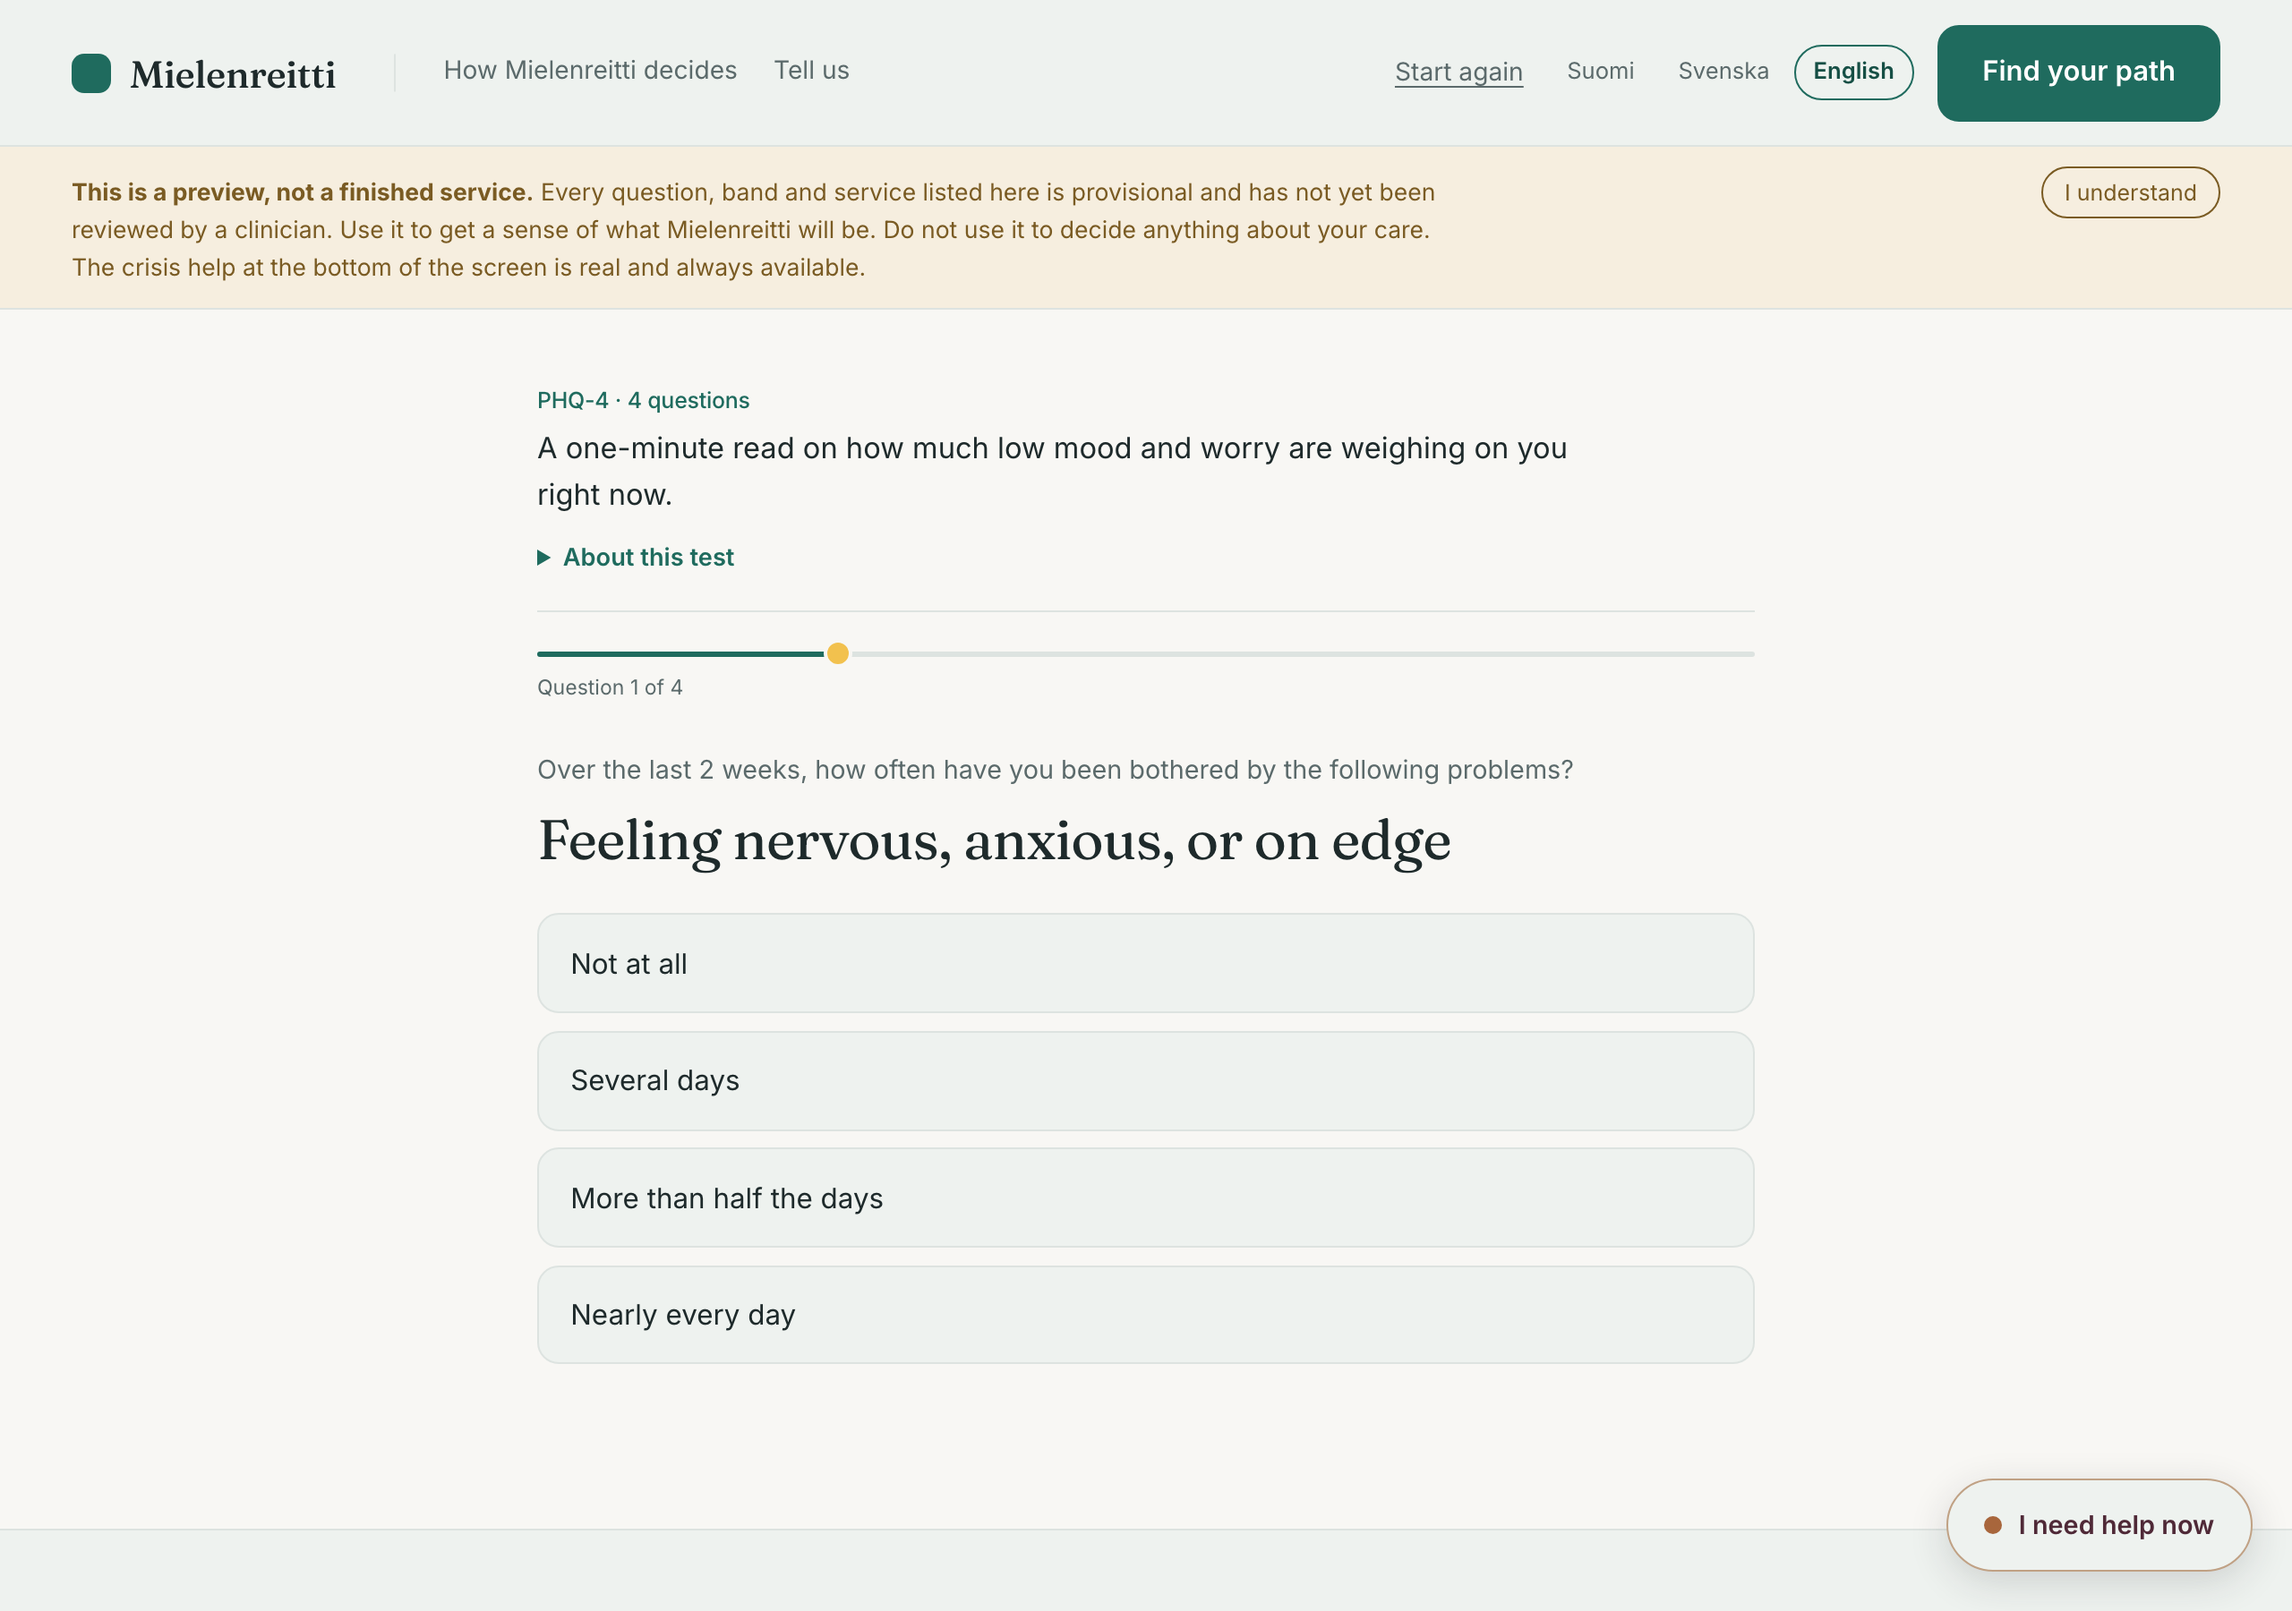
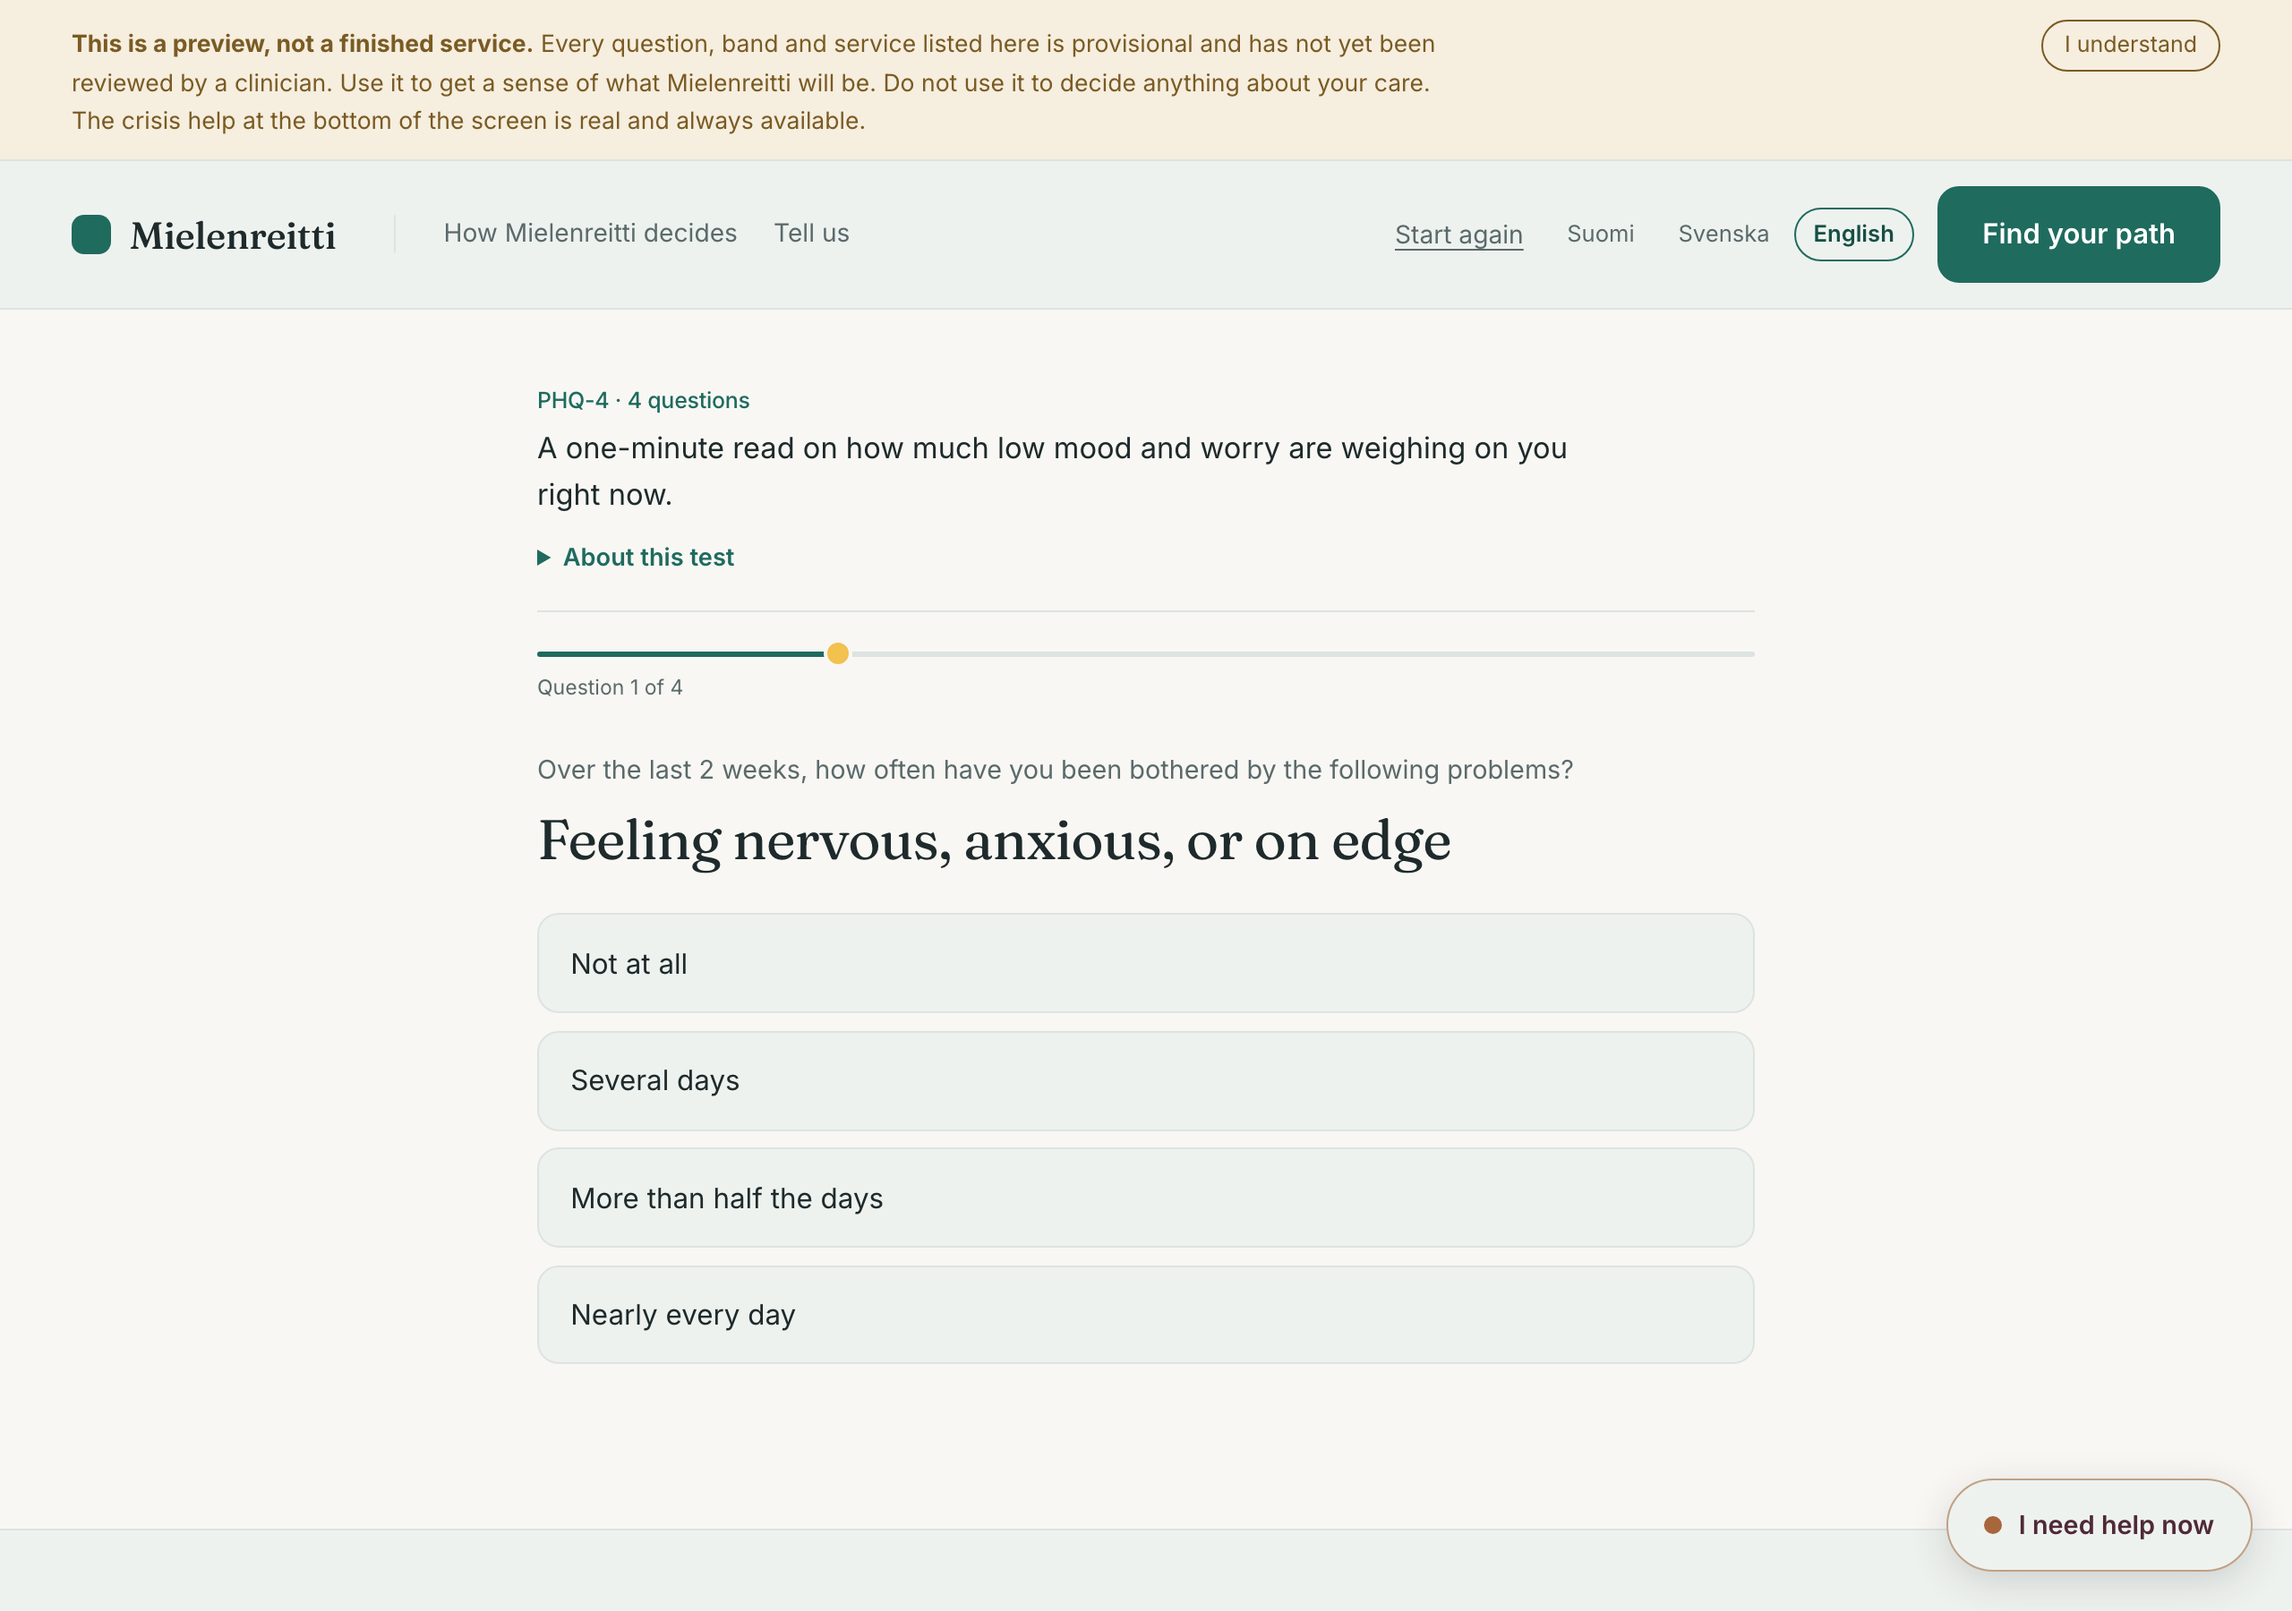
Landing page: no header bar, photo to the edges, no credit line
What was asked for, plainly.

The header stops being a bar on the landing page. It floats over the
photograph as plain white text: "How Mielenreitti decides" and "Tell us" at
the top left, the language switch and the action at the top right. Nothing
was deleted, so the flow, the transparency page, the feedback dialog and
the language switch are all still one click from where they were, and the
crisis control is still fixed on every screen.

The photo fills the screen. Exactly the screen minus the preview banner,
which now publishes its own height: it wraps to three lines in English and
four in Finnish and can be dismissed, so a fixed number would have put the
primary action below the fold in one language and left a gap in another. It
was below the fold before this; it now ends at 834px of 900.

The crisis pill and the photo credit are gone from the hero. The Unsplash
License does not require attribution, and the credit stays in
apps/web/public/img/CREDITS.md where the provenance belongs. Crisis is
still one tap away on the fixed control.

The header and main are now wrapped so the floating header positions
against the content rather than the page. Without that it sat on top of the
preview banner and both were unreadable.

One thing the audit caught. Making the header button white over the photo
looked right and was wrong: `.btn` transitions its background, so leaving
the landing page animated green to white while the text was already white,
[…]

diff --git a/apps/web/src/styles.css b/apps/web/src/styles.css
@@ -725,6 +725,51 @@ h4 {
 
 /* ---------- home ---------- */
 
+/* The landing header: no bar, no rule, no ground. Text links on the photograph,
+   the two of them at the top left and the language switch at the top right.
+   Everything is still a real control in the same place in the DOM, so the flow,
+   the language switch and the transparency page are reachable exactly as before
+   and the crisis control is still fixed on every screen. */
+.app-body {
+  position: relative;
+}
+
+.app-header.is-over-hero {
+  background: transparent;
+  border-bottom: 0;
+  position: absolute;
+  inset: 0 0 auto;
+  z-index: 2;
+}
+
+.app-header.is-over-hero .wordmark,
+.app-header.is-over-hero .header-nav::before {
+  display: none;
+}
+
+.app-header.is-over-hero .header-nav {
+  padding-left: 0;
+}
+
+.app-header.is-over-hero .nav-link,
+.app-header.is-over-hero .language-chip,
+.app-header.is-over-hero .link {
+  color: #fff;
+}
+
+.app-header.is-over-hero .nav-link.is-current,
+.app-header.is-over-hero .language-chip[aria-pressed='true'] {
+  border-color: rgba(255, 255, 255, 0.75);
+  color: #fff;
+}
+
+/* The primary action is NOT restyled here. It was white-on-green over the photo,
+   and `.btn` transitions its background: leaving the landing page animated green
+   to white while the text was already white, so for 140ms it was white on a pale
+   blend. The contrast audit caught it on the language-notice screen. The button
+   looks the same on every screen now, which is also the honest answer: it is the
+   same action. */
+
 /* The hero: a photograph with the text at the bottom left, where the water is
    darkest. White type on a photo always needs a scrim, so a gradient climbs
    from the bottom; a lighter one at the top keeps the crisis control legible
@@ -733,18 +778,14 @@ h4 {
 .hero {
   position: relative;
   isolation: isolate;
-  border-radius: 18px;
   overflow: hidden;
-  margin: 0 auto;
-  max-width: var(--wide);
-  min-height: min(78vh, 46rem);
+  /* Edge to edge, and exactly the screen minus whatever the preview banner is
+     using. `svh` rather than `vh` so a phone's address bar does not crop it, and
+     the banner publishes its own height because it wraps to a different number
+     of lines in each language and can be dismissed. Without that the primary
+     action sat below the fold. */
+  min-height: calc(100svh - var(--banner-h, 0px));
   display: flex;
-}
-
-@media (min-width: 900px) {
-  .hero {
-    width: calc(100% - 3rem);
-  }
 }
 
 .hero-photo,
@@ -848,17 +889,8 @@ h4 {
 }
 
 @media (max-width: 860px) {
-  .hero {
-    border-radius: 0;
-    min-height: min(70vh, 34rem);
-  }
-
   .hero-inner {
-    padding: 1rem 1.25rem 1.5rem;
-  }
-
-  .hero-crisis {
-    align-self: flex-start;
+    padding: 1rem 1.25rem 2.5rem;
   }
 }
 

diff --git a/apps/web/src/components/Home.tsx b/apps/web/src/components/Home.tsx
@@ -13,7 +13,6 @@
  */
 import { useState } from 'react';
 import { useReveal } from '../useReveal';
-import { crisis } from '../config';
 import { t } from '../i18n';
 import { LadderPyramid } from './LadderPyramid';
 import { FreeNow } from './FreeNow';
@@ -27,13 +26,7 @@ const TODAY_STEP_KEYS = [1, 2, 3, 4, 5, 6, 7] as const;
 // does not suggest a rung, and the home page must not promise one.
 const REITTI_STEP_KEYS = [1, 2, 3, 4] as const;
 
-export function Home({
-  onStart,
-  onOpenCrisis,
-}: {
-  onStart: () => void;
-  onOpenCrisis: () => void;
-}) {
+export function Home({ onStart }: { onStart: () => void }) {
   // The comparison reveals one dead end at a time. Reading the friction beats
   // being told about it, and it costs one piece of state.
   const [revealed, setRevealed] = useState(1);
@@ -47,9 +40,6 @@ export function Home({
    * word to lean on is named separately. If the word is not in the sentence,
    * which a translation could easily cause, the plain sentence renders.
    */
-  /** The lines that answer at any hour, in the order config lists them. */
-  const alwaysOpen = crisis.resources.filter((resource) => resource.availability === '24/7');
-
   const title = t('home.title');
   const emphasis = t('home.title.em');
   const at = title.indexOf(emphasis);
@@ -79,17 +69,6 @@ export function Home({
         <div className="hero-scrim" aria-hidden="true" />
 
         <div className="hero-inner">
-          {/* The design puts this in the header. The numbers are read from
-              config/crisis.json, never typed here: these are the two lines that
-              answer around the clock, which is what "now" has to mean. */}
-          <button type="button" className="hero-crisis" onClick={onOpenCrisis}>
-            {t('home.crisisShort')}
-            {alwaysOpen.map((resource) => (
-              <span key={resource.id} className="hero-crisis-number">
-                {resource.phone}
-              </span>
-            ))}
-          </button>
 
           <div className="hero-text" data-reveal>
             <h1 className="hero-hook">{hook}</h1>
@@ -103,18 +82,6 @@ export function Home({
             </div>
           </div>
 
-          {/* The licence asks for nothing; the credit is here because a person
-              made the picture. */}
-          <p className="hero-credit">
-            {t('home.photoCredit')}:{' '}
-            <a href="https://unsplash.com/photos/mu8Mi2i6Iwg" target="_blank" rel="noreferrer noopener">
-              Kristaps Grundsteins
-            </a>{' '}
-            ·{' '}
-            <a href="https://unsplash.com/license" target="_blank" rel="noreferrer noopener">
-              Unsplash License
-            </a>
-          </p>
         </div>
       </section>
 

diff --git a/apps/web/src/App.tsx b/apps/web/src/App.tsx
@@ -226,7 +226,17 @@ export default function App() {
           and what you can do. The middle zone is new — "How Reitti decides" was
           in the footer, and a reviewer reading the site concluded the matching
           logic was not visible at all. It was; nobody found it. */}
-      <header className="app-header">
+      <ProvisionalBanner />
+
+      {/* The header positions against this wrapper rather than the page, so
+          when it floats over the landing photo it starts below the preview
+          banner instead of on top of it. */}
+      <div className="app-body">
+      {/* On the landing page the header stops being a bar: it floats over the
+          photograph so the picture reaches every edge. The controls are the same
+          controls, so the crisis path, the language switch and the flow are all
+          still one click from where they always were. */}
+      <header className={`app-header${screen === 'home' ? ' is-over-hero' : ''}`}>
         <button type="button" className="wordmark" onClick={reset}>
           <span className="wordmark-glyph" aria-hidden="true" />
           <span className="wordmark-text">{t('app.name')}</span>
@@ -274,7 +284,6 @@ export default function App() {
 
       {/* Before anything else on every screen: a person who arrived from a public
           link has no other way to know this build is unreviewed. */}
-      <ProvisionalBanner />
 
       <main>
         {screen === 'home' && showFollowUp && (
@@ -283,7 +292,7 @@ export default function App() {
           </div>
         )}
 
-        {screen === 'home' && <Home onStart={startAssessment} onOpenCrisis={openCrisis} />}
+        {screen === 'home' && <Home onStart={startAssessment} />}
 
         {screen === 'how-it-works' && (
           <div className="wrap-read" style={{ paddingBlock: '2.75rem 4rem' }}>
@@ -414,6 +423,7 @@ export default function App() {
         )}
       </main>
 
+      </div>
       <footer className="app-footer">
         <div className="footer-inner">
           <p className="mono" style={{ maxWidth: '90ch' }}>

diff --git a/apps/web/src/components/ProvisionalBanner.tsx b/apps/web/src/components/ProvisionalBanner.tsx
@@ -13,7 +13,7 @@
  * times is a banner everybody learns to ignore. It is not dismissible for good:
  * the crisis control stays regardless, and this comes back in a new session.
  */
-import { useState } from 'react';
+import { useEffect, useRef, useState } from 'react';
 import { t } from '../i18n';
 
 const KEY = 'reitti.previewNoticeDismissed';
@@ -27,10 +27,35 @@ export function ProvisionalBanner() {
     }
   });
 
+  /**
+   * Publish this banner's height as `--banner-h`, so the landing hero can be
+   * exactly the screen minus the banner rather than a guess. The banner wraps to
+   * three lines in English and four in Finnish, and it can be dismissed, so a
+   * fixed number here would put the primary action below the fold in one
+   * language and leave a gap in another.
+   */
+  const ref = useRef<HTMLElement>(null);
+  useEffect(() => {
+    const root = document.documentElement;
+    const el = ref.current;
+    if (!el) {
+      root.style.setProperty('--banner-h', '0px');
+      return;
+    }
+    const measure = () => root.style.setProperty('--banner-h', `${Math.round(el.getBoundingClientRect().height)}px`);
+    measure();
+    const observer = new ResizeObserver(measure);
+    observer.observe(el);
+    return () => {
+      observer.disconnect();
+      root.style.setProperty('--banner-h', '0px');
+    };
+  }, [dismissed]);
+
   if (dismissed) return null;
 
   return (
-    <aside className="provisional-banner" role="note" aria-label={t('preview.label')}>
+    <aside ref={ref} className="provisional-banner" role="note" aria-label={t('preview.label')}>
       <p className="provisional-banner-body">
         <strong>{t('preview.heading')}</strong> {t('preview.body')}
       </p>
